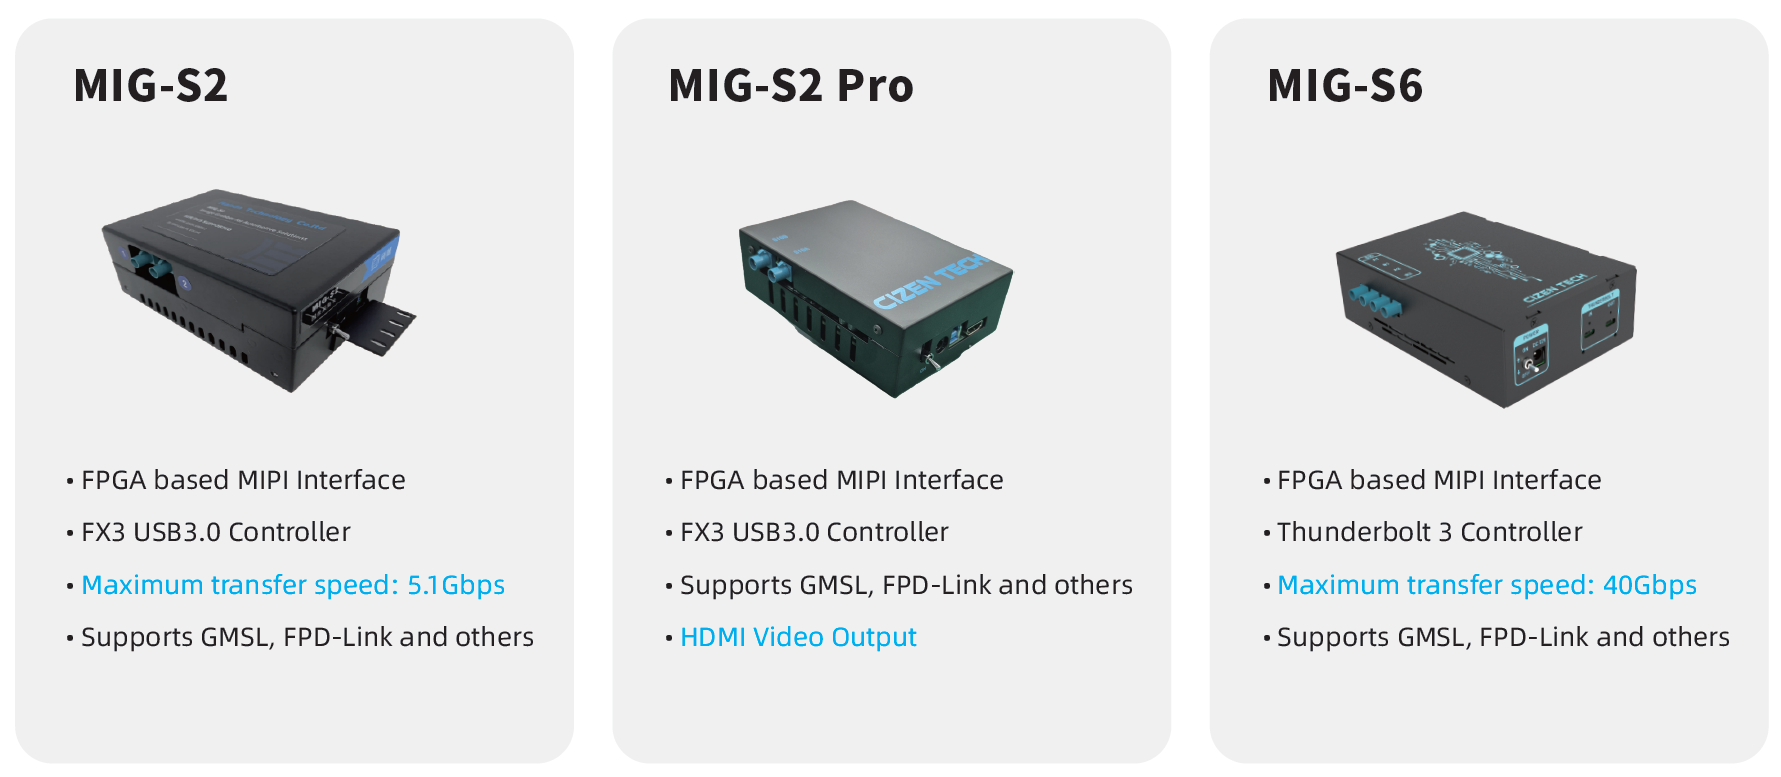
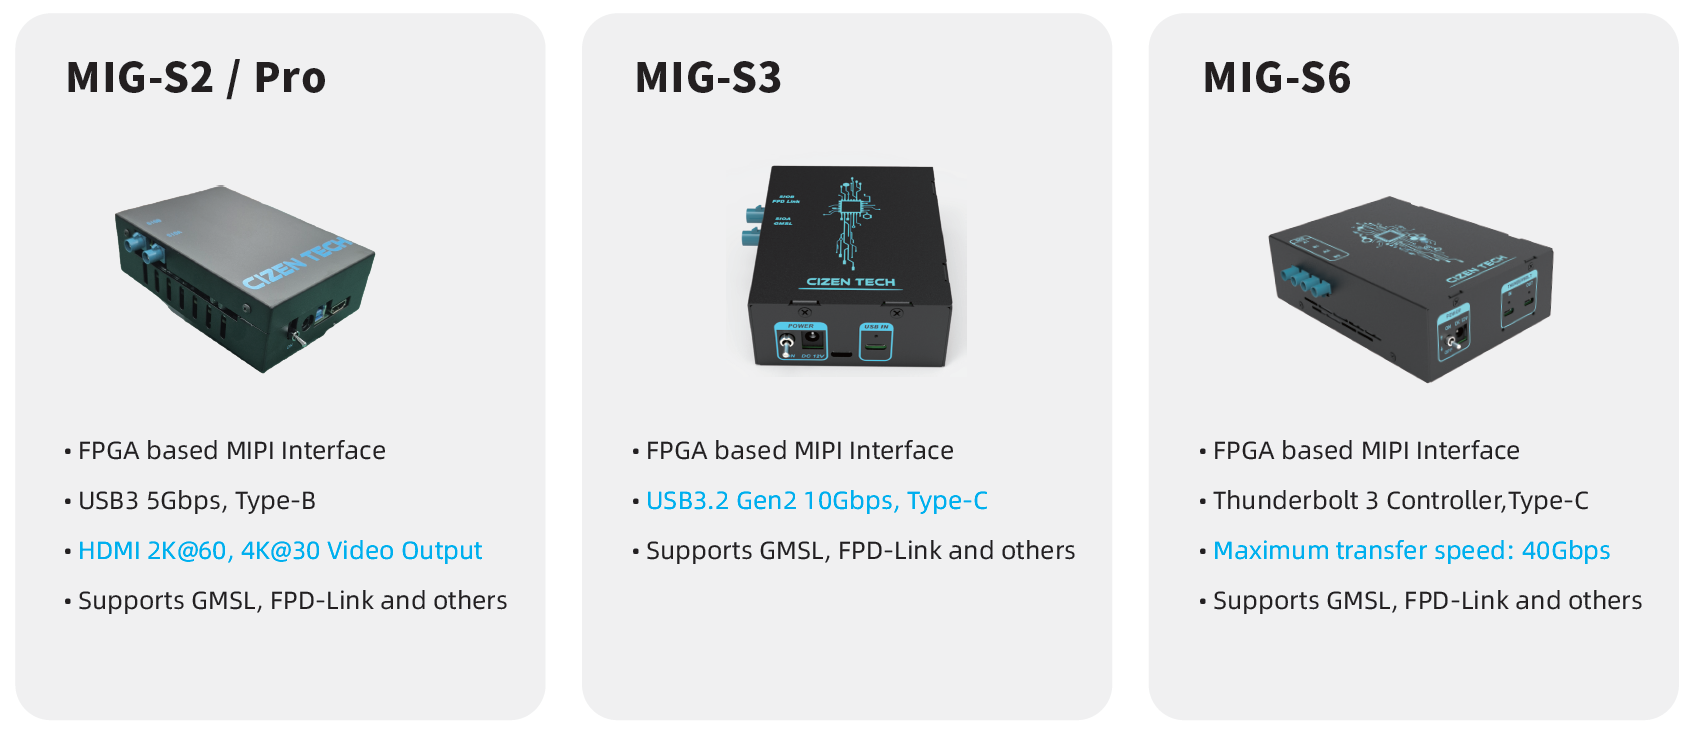
S3 추가

diff --git a/docs/FrameGrabber.html b/docs/FrameGrabber.html
@@ -4,11 +4,11 @@
   <meta charset="UTF-8">
   <meta name="viewport" content="width=device-width, initial-scale=1.0">
   <title>Frame Grabber · CIZEN TECH</title>
-  <meta name="description" content="MIG Series Frame Grabber — MIG-S2 / MIG-S2 Pro / MIG-S6">
+  <meta name="description" content="MIG Series Frame Grabber — MIG-S2 / MIG-S2 Pro / MIG-S3 / MIG-S6">
   <link rel="canonical" href="https://cizentech.github.io/support/FrameGrabber.html">
   <meta property="og:type" content="article">
   <meta property="og:title" content="Frame Grabber">
-  <meta property="og:description" content="MIG Series Frame Grabber — MIG-S2 / MIG-S2 Pro / MIG-S6">
+  <meta property="og:description" content="MIG Series Frame Grabber — MIG-S2 / MIG-S2 Pro / MIG-S3 / MIG-S6">
   <meta property="og:url" content="https://cizentech.github.io/support/FrameGrabber.html">
   <link rel="icon" type="image/png" sizes="32x32" href="img/cizentech-32x32.png">
   <link rel="stylesheet" href="doc.css">
@@ -20,14 +20,14 @@
   </header>
   <main class="markdown-section">
 <h1>Frame Grabber</h1>
-<p><strong>MIG Series Frame Grabber — MIG-S2 / MIG-S2 Pro / MIG-S6</strong></p>
+<p><strong>MIG Series Frame Grabber — MIG-S2 / MIG-S2 Pro / MIG-S3 / MIG-S6</strong></p>
 <p>A compact, highly compatible MIPI-interface image capture card for automotive camera module systems. It supports GMSL / FPD-Link / Clockless Link / MIPI and is designed for AI/ADAS algorithm development after camera activation and for in-line camera image-quality testing.</p>
 <p><a href="https://cizentech-my.sharepoint.com/:b:/p/mason/IQDrYS5vV8SoTZu11KLzHZ3TAbdqAmPb3fpWbN2JPVbDMoQ?e=T7eGuu">Download datasheet (PDF)</a></p>
 <blockquote>
 <p>  Pairs with the <a href="CameraMaster.html">CameraMaster</a> software for module bring-up, configuration, and live capture.</p>
 </blockquote>
 <h2>1. Overview</h2>
-<p><img src="img/MIG_Series.png" alt="MIG Series Frame Grabber — MIG-S2 / MIG-S2 Pro / MIG-S6"></p>
+<p><img src="img/MIG_Series.png" alt="MIG Series Frame Grabber — MIG-S2 / MIG-S2 Pro / MIG-S3 / MIG-S6"></p>
 <p>The MIG-S2 / MIG-S2 Pro is a compact, highly compatible, and reliable MIPI-interface image capture card designed for automotive camera module systems. With a streamlined design and ease of use, it supports image acquisition for most modules on the market. Its scalability and stable testing environment make it ideal for AI/ADAS algorithm development post-camera activation and for in-line camera image-quality testing.</p>
 <ul>
 <li><strong>Activation Experience</strong> — 500+ modules</li>
@@ -35,7 +35,7 @@
 <li><strong>High-Speed Data Transfer</strong> — USB 3.2 Gen 1 (5 Gbps), USB 3.2 Gen 2 (10 Gbps), Thunderbolt 3 (40 Gbps)</li>
 <li><strong>Wide Power Range</strong> — 1–20 V module power supply</li>
 <li><strong>Deserializer Compatibility</strong> — Supports ADI / TI / ROHM / SONY deserializer boards</li>
-<li><strong>HDMI Display</strong> — Full HD output (MIG-S2 Pro only)</li>
+<li><strong>HDMI Display</strong> — 2K@60 / 4K@30 output (MIG-S2 Pro only)</li>
 </ul>
 <h2>2. Key Features</h2>
 <table>
@@ -89,6 +89,14 @@
 <li>MAX9296A deserializer board included, FPD-Link III selectable</li>
 <li>Supports HDMI video output</li>
 </ul>
+<h3>MIG-S3</h3>
+<ul>
+<li>FPGA-based MIPI interface</li>
+<li>USB 3.2 Gen 2 Type-C controller</li>
+<li>Maximum transfer speed: 10 Gbps</li>
+<li>Supports GMSL, FPD-Link and other SerDes interfaces</li>
+<li>Compact design: 107 × 86 × 40 mm</li>
+</ul>
 <h3>MIG-S6</h3>
 <ul>
 <li>FPGA-based MIPI interface</li>
@@ -104,6 +112,7 @@
 <th>Item</th>
 <th>MIG-S2</th>
 <th>MIG-S2 Pro</th>
+<th>MIG-S3</th>
 <th>MIG-S6</th>
 </tr>
 </thead>
@@ -111,16 +120,19 @@
 <td><strong>Model Name</strong></td>
 <td>MIG-S2</td>
 <td>MIG-S2 Pro</td>
+<td>MIG-S3</td>
 <td>MIG-S6</td>
 </tr>
 <tr>
 <td><strong>Dimension</strong></td>
 <td>146 × 100 × 50 (mm)</td>
 <td>146 × 100 × 50 (mm)</td>
+<td>107 × 86 × 40 (mm)</td>
 <td>170 × 118 × 42 (mm)</td>
 </tr>
 <tr>
 <td><strong>MIPI Interface</strong></td>
+<td>MIPI-CSI-2, 1/2/4-lane D-PHY rated at 2.5 Gbps/lane</td>
 <td>MIPI-CSI-2, 1/2/4-lane D-PHY rated at 2.5 Gbps/lane</td>
 <td>MIPI-CSI-2, 1/2/4-lane D-PHY rated at 2.5 Gbps/lane</td>
 <td>MIPI-CSI-2, 1/2/4-lane D-PHY rated at 2.5 Gbps/lane</td>
@@ -130,9 +142,11 @@
 <td>8-bit to 16-bit RAW, YUV422, RGB888</td>
 <td>8-bit to 16-bit RAW, YUV422, RGB888</td>
 <td>8-bit to 16-bit RAW, YUV422, RGB888</td>
+<td>8-bit to 16-bit RAW, YUV422, RGB888</td>
 </tr>
 <tr>
 <td><strong>DPS</strong></td>
+<td>2CH, 1–20 V forcing voltage, 0–2 A current measurement</td>
 <td>2CH, 1–20 V forcing voltage, 0–2 A current measurement</td>
 <td>2CH, 1–20 V forcing voltage, 0–2 A current measurement</td>
 <td>4CH, 1–20 V forcing voltage, 0–2 A current measurement</td>
@@ -141,22 +155,26 @@
 <td><strong>Supported Ser/Des</strong></td>
 <td>GMSL1, GMSL2/1, GMSL3/2, FPD-Link III</td>
 <td>GMSL1, GMSL2/1, GMSL3/2, FPD-Link III</td>
+<td>GMSL1, GMSL2/1, GMSL3/2, FPD-Link III / IV</td>
 <td>GMSL1, GMSL2/1, GMSL3/2, FPD-Link III</td>
 </tr>
 <tr>
 <td><strong>Input Interface</strong></td>
 <td>2× FAKRA connection</td>
 <td>2× FAKRA connection</td>
+<td>FAKRA Z connector</td>
 <td>4× FAKRA connection</td>
 </tr>
 <tr>
 <td><strong>Output Interface</strong></td>
 <td>USB 3.0 Type-B connector (max. transfer speed 5 Gbps)</td>
-<td>USB 3.0 Type-B connector; HDMI video output 1080p@60Hz</td>
+<td>USB 3.0 Type-B connector; HDMI video output 2K@60, 4K@30</td>
+<td>USB 3.2 Gen 2 Type-C connector (max. 10 Gbps)</td>
 <td>Thunderbolt 3, C-Type (max. 40 Gbps, effective 22 Gbps)</td>
 </tr>
 <tr>
 <td><strong>Power In</strong></td>
+<td>12 V / 5 A DC adaptor</td>
 <td>12 V / 5 A DC adaptor</td>
 <td>12 V / 5 A DC adaptor</td>
 <td>12 V / 5 A DC adaptor</td>

diff --git a/docs/FrameGrabber.md b/docs/FrameGrabber.md
@@ -1,6 +1,6 @@
 # Frame Grabber
 
-**MIG Series Frame Grabber — MIG-S2 / MIG-S2 Pro / MIG-S6**
+**MIG Series Frame Grabber — MIG-S2 / MIG-S2 Pro / MIG-S3 / MIG-S6**
 
 A compact, highly compatible MIPI-interface image capture card for automotive camera module systems. It supports GMSL / FPD-Link / Clockless Link / MIPI and is designed for AI/ADAS algorithm development after camera activation and for in-line camera image-quality testing.
 
@@ -10,7 +10,7 @@ A compact, highly compatible MIPI-interface image capture card for automotive ca
 
 ## 1. Overview
 
-![MIG Series Frame Grabber — MIG-S2 / MIG-S2 Pro / MIG-S6](img/MIG_Series.png)
+![MIG Series Frame Grabber — MIG-S2 / MIG-S2 Pro / MIG-S3 / MIG-S6](img/MIG_Series.png)
 
 The MIG-S2 / MIG-S2 Pro is a compact, highly compatible, and reliable MIPI-interface image capture card designed for automotive camera module systems. With a streamlined design and ease of use, it supports image acquisition for most modules on the market. Its scalability and stable testing environment make it ideal for AI/ADAS algorithm development post-camera activation and for in-line camera image-quality testing.
 
@@ -19,7 +19,7 @@ The MIG-S2 / MIG-S2 Pro is a compact, highly compatible, and reliable MIPI-inter
 -   **High-Speed Data Transfer** — USB 3.2 Gen 1 (5 Gbps), USB 3.2 Gen 2 (10 Gbps), Thunderbolt 3 (40 Gbps)
 -   **Wide Power Range** — 1–20 V module power supply
 -   **Deserializer Compatibility** — Supports ADI / TI / ROHM / SONY deserializer boards
--   **HDMI Display** — Full HD output (MIG-S2 Pro only)
+-   **HDMI Display** — 2K@60 / 4K@30 output (MIG-S2 Pro only)
 
 ## 2. Key Features
 
@@ -49,6 +49,14 @@ The MIG-S2 / MIG-S2 Pro is a compact, highly compatible, and reliable MIPI-inter
 -   MAX9296A deserializer board included, FPD-Link III selectable
 -   Supports HDMI video output
 
+### MIG-S3
+
+-   FPGA-based MIPI interface
+-   USB 3.2 Gen 2 Type-C controller
+-   Maximum transfer speed: 10 Gbps
+-   Supports GMSL, FPD-Link and other SerDes interfaces
+-   Compact design: 107 × 86 × 40 mm
+
 ### MIG-S6
 
 -   FPGA-based MIPI interface
@@ -59,17 +67,17 @@ The MIG-S2 / MIG-S2 Pro is a compact, highly compatible, and reliable MIPI-inter
 
 ## 4. Specifications
 
-| Item                       | MIG-S2                                                 | MIG-S2 Pro                                             | MIG-S6                                                  |
-|----------------------------|--------------------------------------------------------|--------------------------------------------------------|---------------------------------------------------------|
-| **Model Name**             | MIG-S2                                                 | MIG-S2 Pro                                             | MIG-S6                                                  |
-| **Dimension**              | 146 × 100 × 50 (mm)                                    | 146 × 100 × 50 (mm)                                    | 170 × 118 × 42 (mm)                                     |
-| **MIPI Interface**         | MIPI-CSI-2, 1/2/4-lane D-PHY rated at 2.5 Gbps/lane    | MIPI-CSI-2, 1/2/4-lane D-PHY rated at 2.5 Gbps/lane    | MIPI-CSI-2, 1/2/4-lane D-PHY rated at 2.5 Gbps/lane     |
-| **Supported Video Format** | 8-bit to 16-bit RAW, YUV422, RGB888                    | 8-bit to 16-bit RAW, YUV422, RGB888                    | 8-bit to 16-bit RAW, YUV422, RGB888                     |
-| **DPS**                    | 2CH, 1–20 V forcing voltage, 0–2 A current measurement | 2CH, 1–20 V forcing voltage, 0–2 A current measurement | 4CH, 1–20 V forcing voltage, 0–2 A current measurement  |
-| **Supported Ser/Des**      | GMSL1, GMSL2/1, GMSL3/2, FPD-Link III                  | GMSL1, GMSL2/1, GMSL3/2, FPD-Link III                  | GMSL1, GMSL2/1, GMSL3/2, FPD-Link III                   |
-| **Input Interface**        | 2× FAKRA connection                                    | 2× FAKRA connection                                    | 4× FAKRA connection                                     |
-| **Output Interface**       | USB 3.0 Type-B connector (max. transfer speed 5 Gbps)  | USB 3.0 Type-B connector; HDMI video output 1080p@60Hz | Thunderbolt 3, C-Type (max. 40 Gbps, effective 22 Gbps) |
-| **Power In**               | 12 V / 5 A DC adaptor                                  | 12 V / 5 A DC adaptor                                  | 12 V / 5 A DC adaptor                                   |
+| Item                       | MIG-S2                                                 | MIG-S2 Pro                                             | MIG-S3                                                 | MIG-S6                                                  |
+|----------------------------|--------------------------------------------------------|--------------------------------------------------------|--------------------------------------------------------|---------------------------------------------------------|
+| **Model Name**             | MIG-S2                                                 | MIG-S2 Pro                                             | MIG-S3                                                 | MIG-S6                                                  |
+| **Dimension**              | 146 × 100 × 50 (mm)                                    | 146 × 100 × 50 (mm)                                    | 107 × 86 × 40 (mm)                                     | 170 × 118 × 42 (mm)                                     |
+| **MIPI Interface**         | MIPI-CSI-2, 1/2/4-lane D-PHY rated at 2.5 Gbps/lane    | MIPI-CSI-2, 1/2/4-lane D-PHY rated at 2.5 Gbps/lane    | MIPI-CSI-2, 1/2/4-lane D-PHY rated at 2.5 Gbps/lane    | MIPI-CSI-2, 1/2/4-lane D-PHY rated at 2.5 Gbps/lane     |
+| **Supported Video Format** | 8-bit to 16-bit RAW, YUV422, RGB888                    | 8-bit to 16-bit RAW, YUV422, RGB888                    | 8-bit to 16-bit RAW, YUV422, RGB888                    | 8-bit to 16-bit RAW, YUV422, RGB888                     |
+| **DPS**                    | 2CH, 1–20 V forcing voltage, 0–2 A current measurement | 2CH, 1–20 V forcing voltage, 0–2 A current measurement | 2CH, 1–20 V forcing voltage, 0–2 A current measurement | 4CH, 1–20 V forcing voltage, 0–2 A current measurement  |
+| **Supported Ser/Des**      | GMSL1, GMSL2/1, GMSL3/2, FPD-Link III                  | GMSL1, GMSL2/1, GMSL3/2, FPD-Link III                  | GMSL1, GMSL2/1, GMSL3/2, FPD-Link III / IV             | GMSL1, GMSL2/1, GMSL3/2, FPD-Link III                   |
+| **Input Interface**        | 2× FAKRA connection                                    | 2× FAKRA connection                                    | FAKRA Z connector                                      | 4× FAKRA connection                                     |
+| **Output Interface**       | USB 3.0 Type-B connector (max. transfer speed 5 Gbps)  | USB 3.0 Type-B connector; HDMI video output 2K@60, 4K@30| USB 3.2 Gen 2 Type-C connector (max. 10 Gbps)          | Thunderbolt 3, C-Type (max. 40 Gbps, effective 22 Gbps) |
+| **Power In**               | 12 V / 5 A DC adaptor                                  | 12 V / 5 A DC adaptor                                  | 12 V / 5 A DC adaptor                                  | 12 V / 5 A DC adaptor                                   |
 
 >   *All specifications are typical values and subject to change without notice.*
 